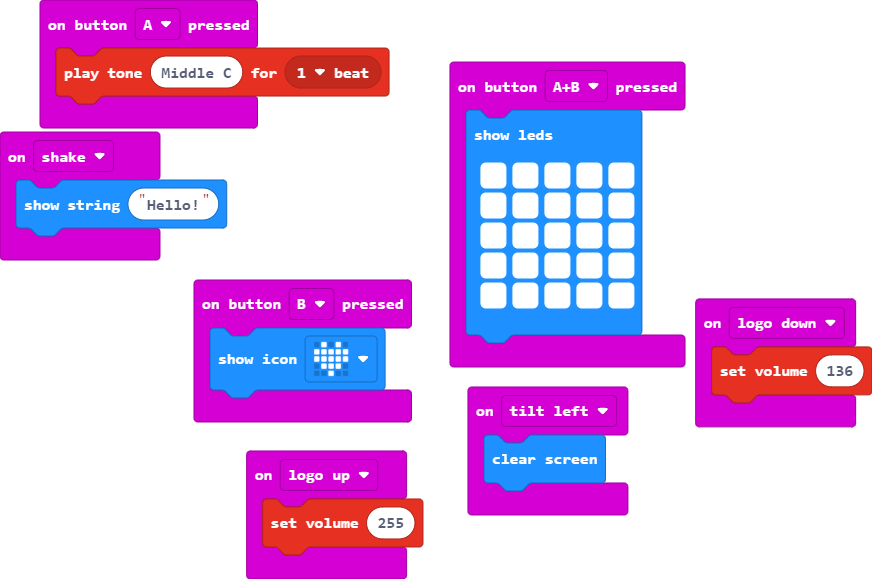
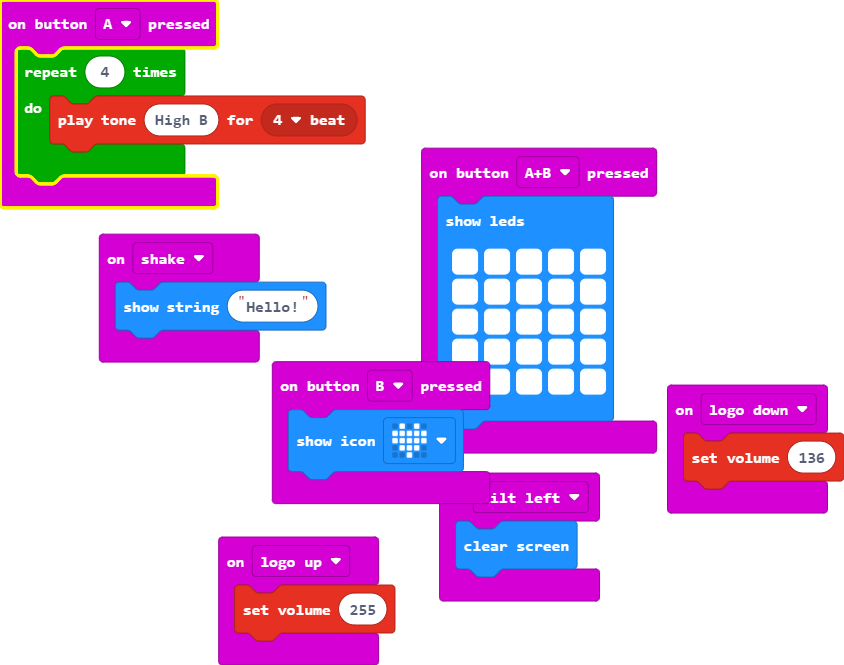
Update main.blocks, main.ts

diff --git a/main.ts b/main.ts
@@ -1,5 +1,7 @@
 input.onButtonPressed(Button.A, function () {
-    music.playTone(262, music.beat(BeatFraction.Whole))
+    for (let index = 0; index < 4; index++) {
+        music.playTone(988, music.beat(BeatFraction.Breve))
+    }
 })
 input.onGesture(Gesture.LogoUp, function () {
     music.setVolume(255)
